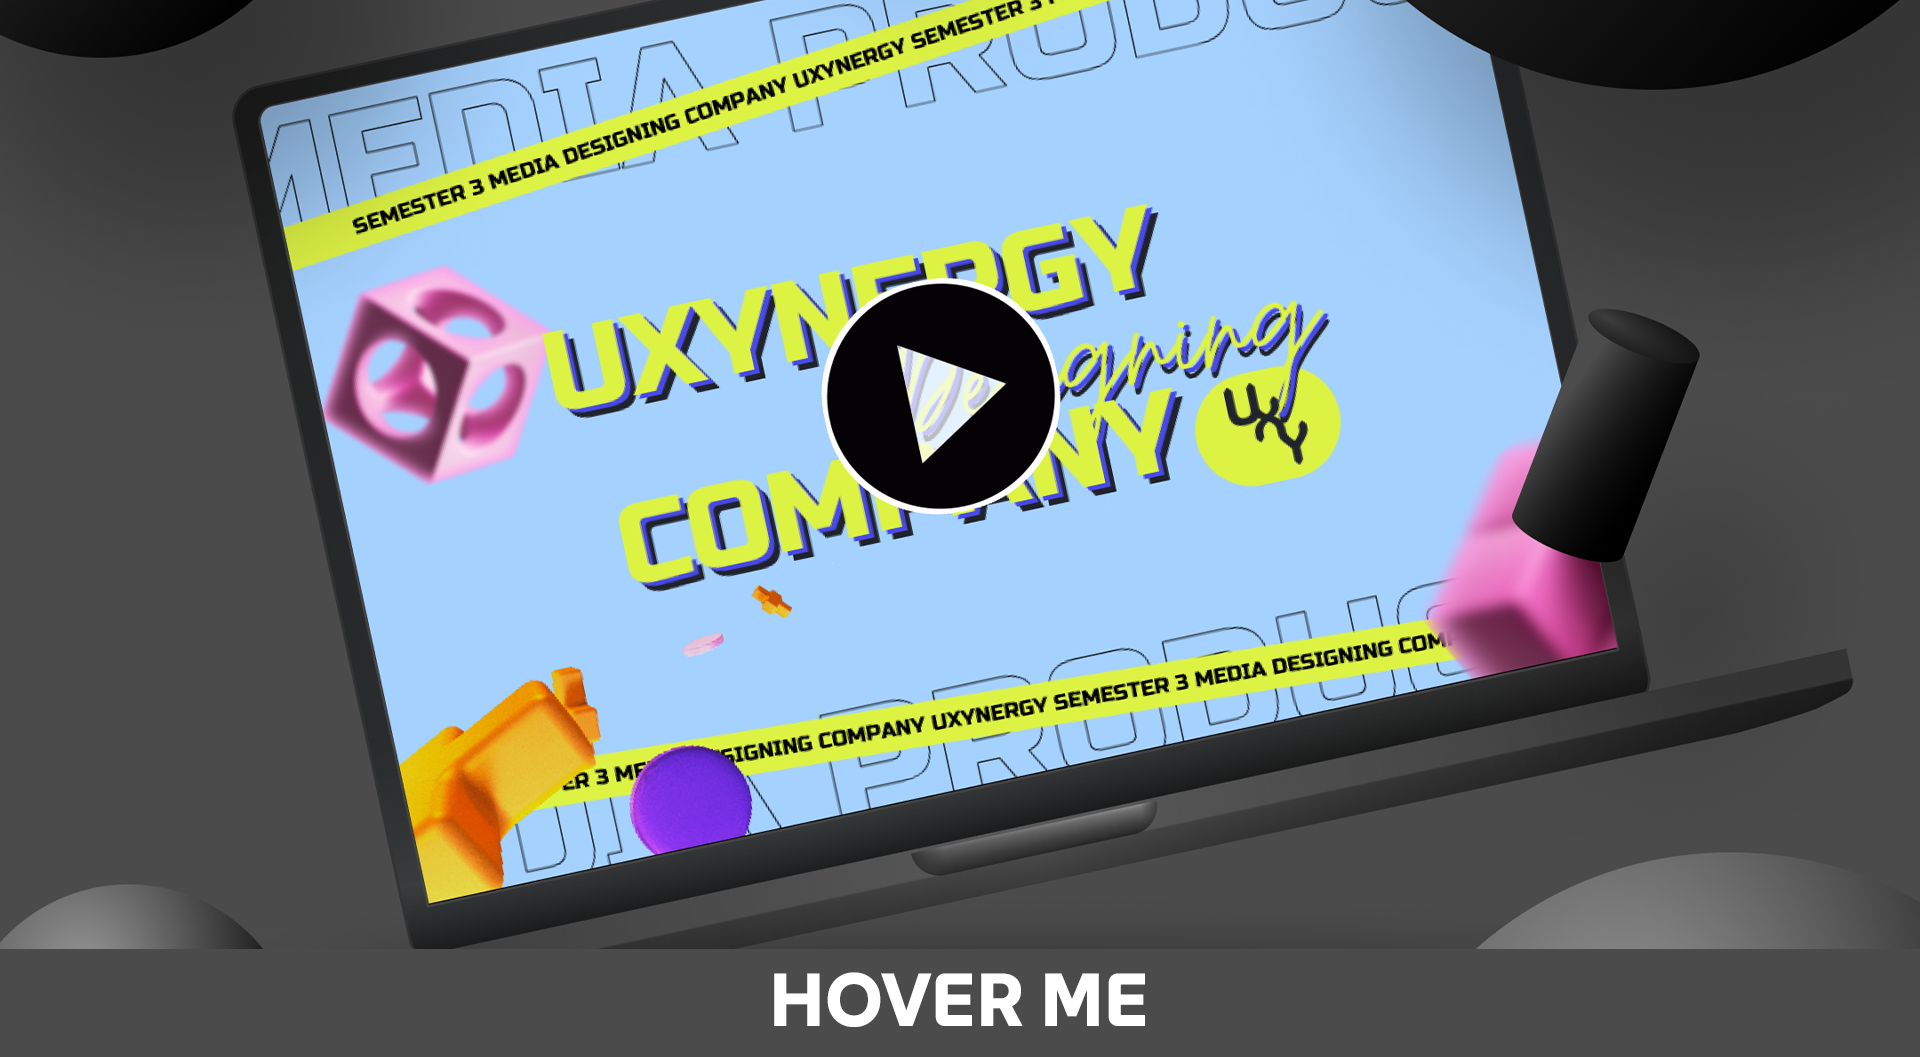
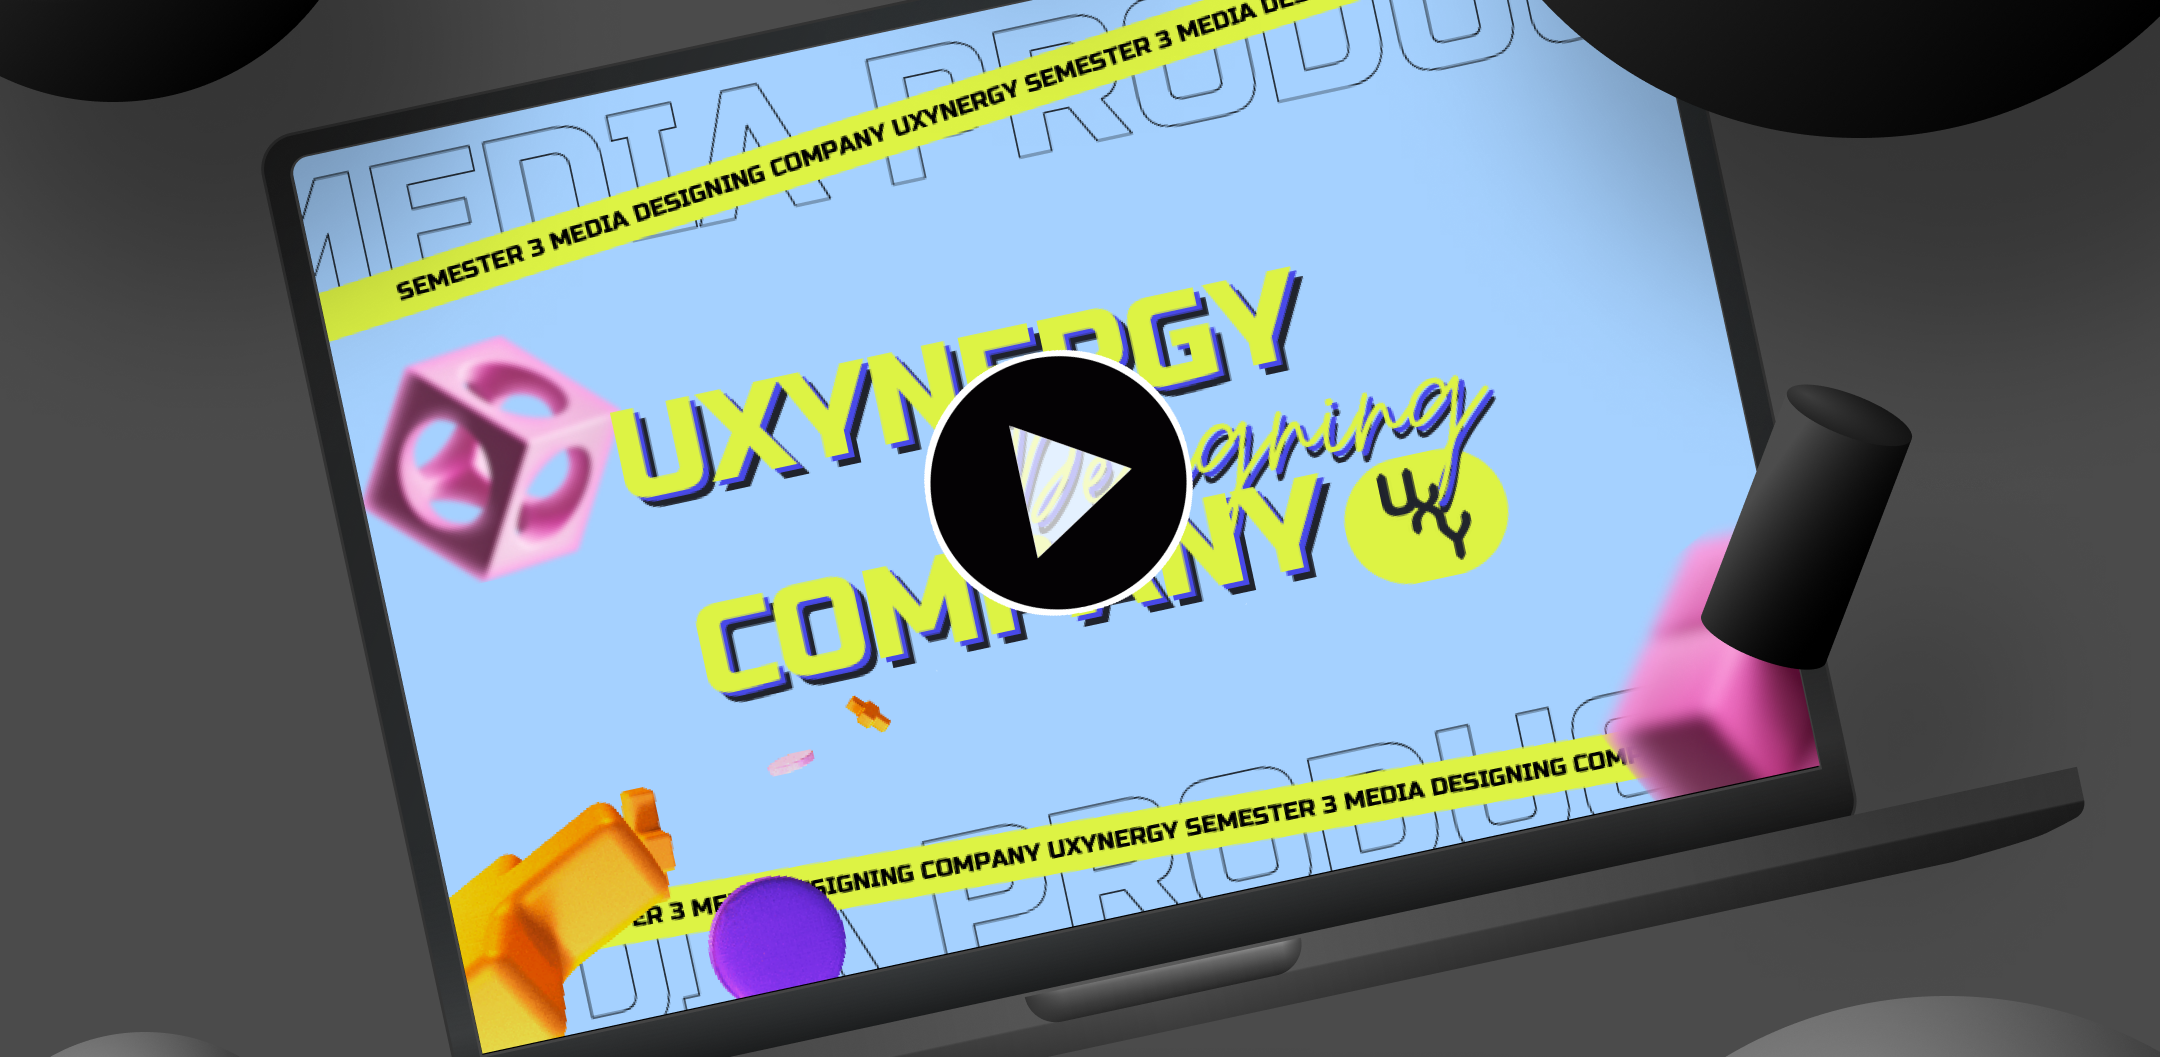
converted img's back in lo2-3-4

diff --git a/lo3.html b/lo3.html
@@ -43,15 +43,8 @@
         </div>
     <!-- Image section -->
     <section class="first-img">
-            <div class="div-href-img-overlay">
-                <a href="https://www.figma.com/design/Y3RYcACKv8jjKh6WGwuNT8/Portfolio?node-id=0-1&node-type=canvas&t=BOZFAd6OvKQgJgjD-0" target="_blank" rel="noopener noreferrer">
-                    <img src="/img/MackBook5Update.png" alt="">
-                    <div class="overlay">
-                        <div class="text">VIEW FIGMA</div>
-                    </div>
-                </a>
-            </div>
-        </section>
+        <img src="/img/MacBook5.png" alt="">
+    </section>
     <section class="explanation">
         <div class="caterory-container">
             <div class="category-title-2"><h1>PERSONAL PORTFOLIO</h1></div>
@@ -64,14 +57,7 @@
     </section>
     <!-- New section, repetition of the above. -->
     <section class="first-img">
-        <div class="div-href-img-overlay">
-            <a href="https://www.figma.com/design/aQxjv1O8SbyWyRhndONYRK/Brand-guide?node-id=0-1&node-type=canvas&t=mqkxmR7C5s3Uz4Go-0" target="_blank" rel="noopener noreferrer">
-                <img src="/img/brandguide.png" alt="">
-                <div class="overlay">
-                    <div class="text">VIEW FIGMA</div>
-                </div>
-            </a>
-        </div>
+        <img src="/img/brandguide.png" alt="">
     </section>
     <section class="explanation"></section>
         <div class="caterory-container">

diff --git a/lo4.html b/lo4.html
@@ -56,14 +56,7 @@
         <!-- New section, repetition of the above. -->
          <!-- Image section -->
          <section class="first-img">
-            <div class="div-href-img-overlay">
-                <a href="/docs/UXYNERGY_video.mp4" target="_blank" rel="noopener noreferrer">
-                    <img src="/img/uxypitch.png" alt="">
-                    <div class="overlay">
-                        <div class="text">VIEW VIDEO</div>
-                    </div>
-                </a>
-            </div>
+            <img src="/img/uxypitch.png" alt="">
         </section>
     <section class="explanation">
         <div class="caterory-container">
@@ -71,6 +64,7 @@
             <div class="category-info-2"><p>To keep an professional approach considering out group project, we used a Trello board to formulate what needs to be done and before what time.
                 This helps with both individually and in teams, since you and the rest are on track with the project goals.
                 <br> <br> <a class="documentation" href="https://git.fhict.nl/I509805/semester3losburdenofproof/-/wikis/LO1-Personal-portfolio" target="_blank" rel="noopener noreferrer"><i class="fa-brands fa-gitlab"></i>DOCUMENTATION</a>
+                <a class="documentation" href="docs/UXYNERGY_video.mp4" target="_blank" rel="noopener noreferrer"><i class="fa-solid fa-play"></i>VIDEO</a>
             </p></div>
         </div>
     </section>

diff --git a/lo2.html b/lo2.html
@@ -42,14 +42,7 @@
             </div>
         <!-- Image section -->
         <section class="first-img">
-            <div class="div-href-img-overlay">
-                <a href="https://github.com/Justin509805/Sem3Portfolio/commits" target="_blank" rel="noopener noreferrer">
-                    <img src="/img/versioncontrol.png" alt="">
-                    <div class="overlay">
-                        <div class="text">VIEW FIGMA</div>
-                    </div>
-                </a>
-            </div>
+            <img src="/img/versioncontrol.png" alt="">
         </section>
     <section class="explanation">
         <div class="caterory-container">
@@ -57,6 +50,7 @@
             <div class="category-info-2"><p>I have been documenting and commenting my code. I made sure to use clear class names, and clear comments in both my code and push commits.
                 This so that it would be nicer to work with in a team environment.
                 <br> <br> <a class="documentation" href="https://git.fhict.nl/I509805/semester3losburdenofproof/-/wikis/LO1-Personal-portfolio" target="_blank" rel="noopener noreferrer"><i class="fa-brands fa-gitlab"></i>DOCUMENTATION</a>
+                <a class="documentation" href="https://github.com/Justin509805/Sem3Portfolio/commits" target="_blank" rel="noopener noreferrer"><i class="fa-brands fa-gitlab"></i>COMMITS</a>
             </p></div>
         </div>
     </section>

diff --git a/css/style.css b/css/style.css
@@ -335,7 +335,7 @@ body {
   color: black;
 }
 
-.fa-gitlab, .fa-file-pdf  {
+.fa-gitlab, .fa-file-pdf, .fa-play  {
   font-size: 25px;
   padding: 5px;
 }
@@ -343,7 +343,19 @@ body {
 .fa-gitlab:hover {
   background-color: #ddd;
   color: black;
-  padding: 10px;
+  padding: 5px;
+}
+
+.fa-play:hover {
+  background-color: #ddd;
+  color: black;
+  padding: 5px;
+}
+
+
+.documentation:hover {
+  background-color: #ddd;
+  color: black;
 }
 
 .documentation {
